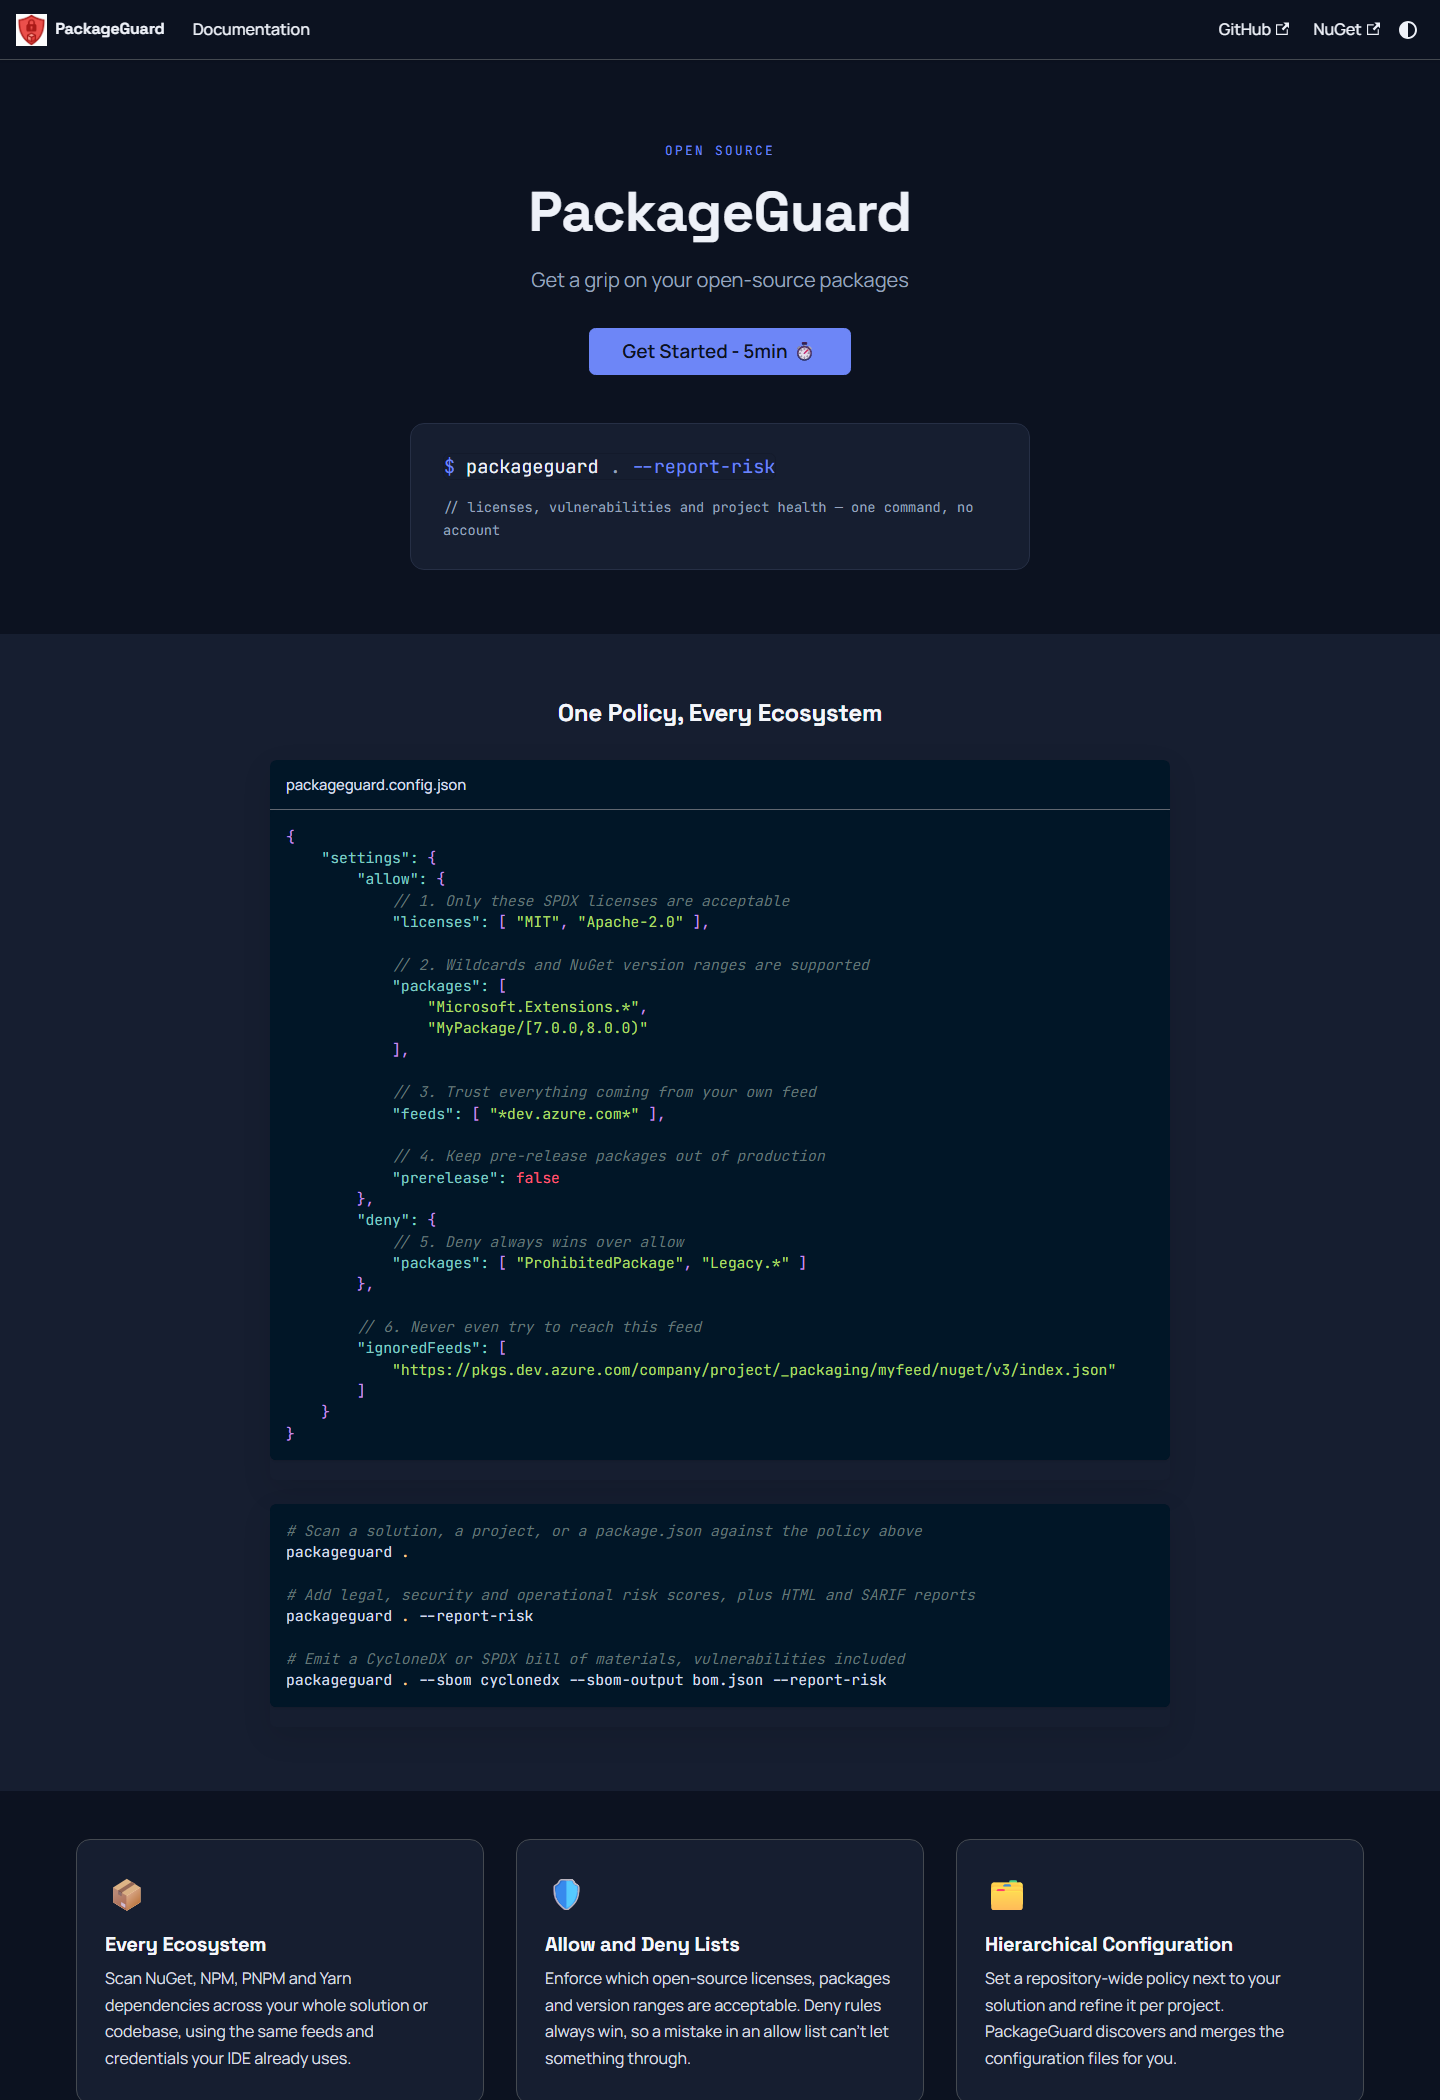
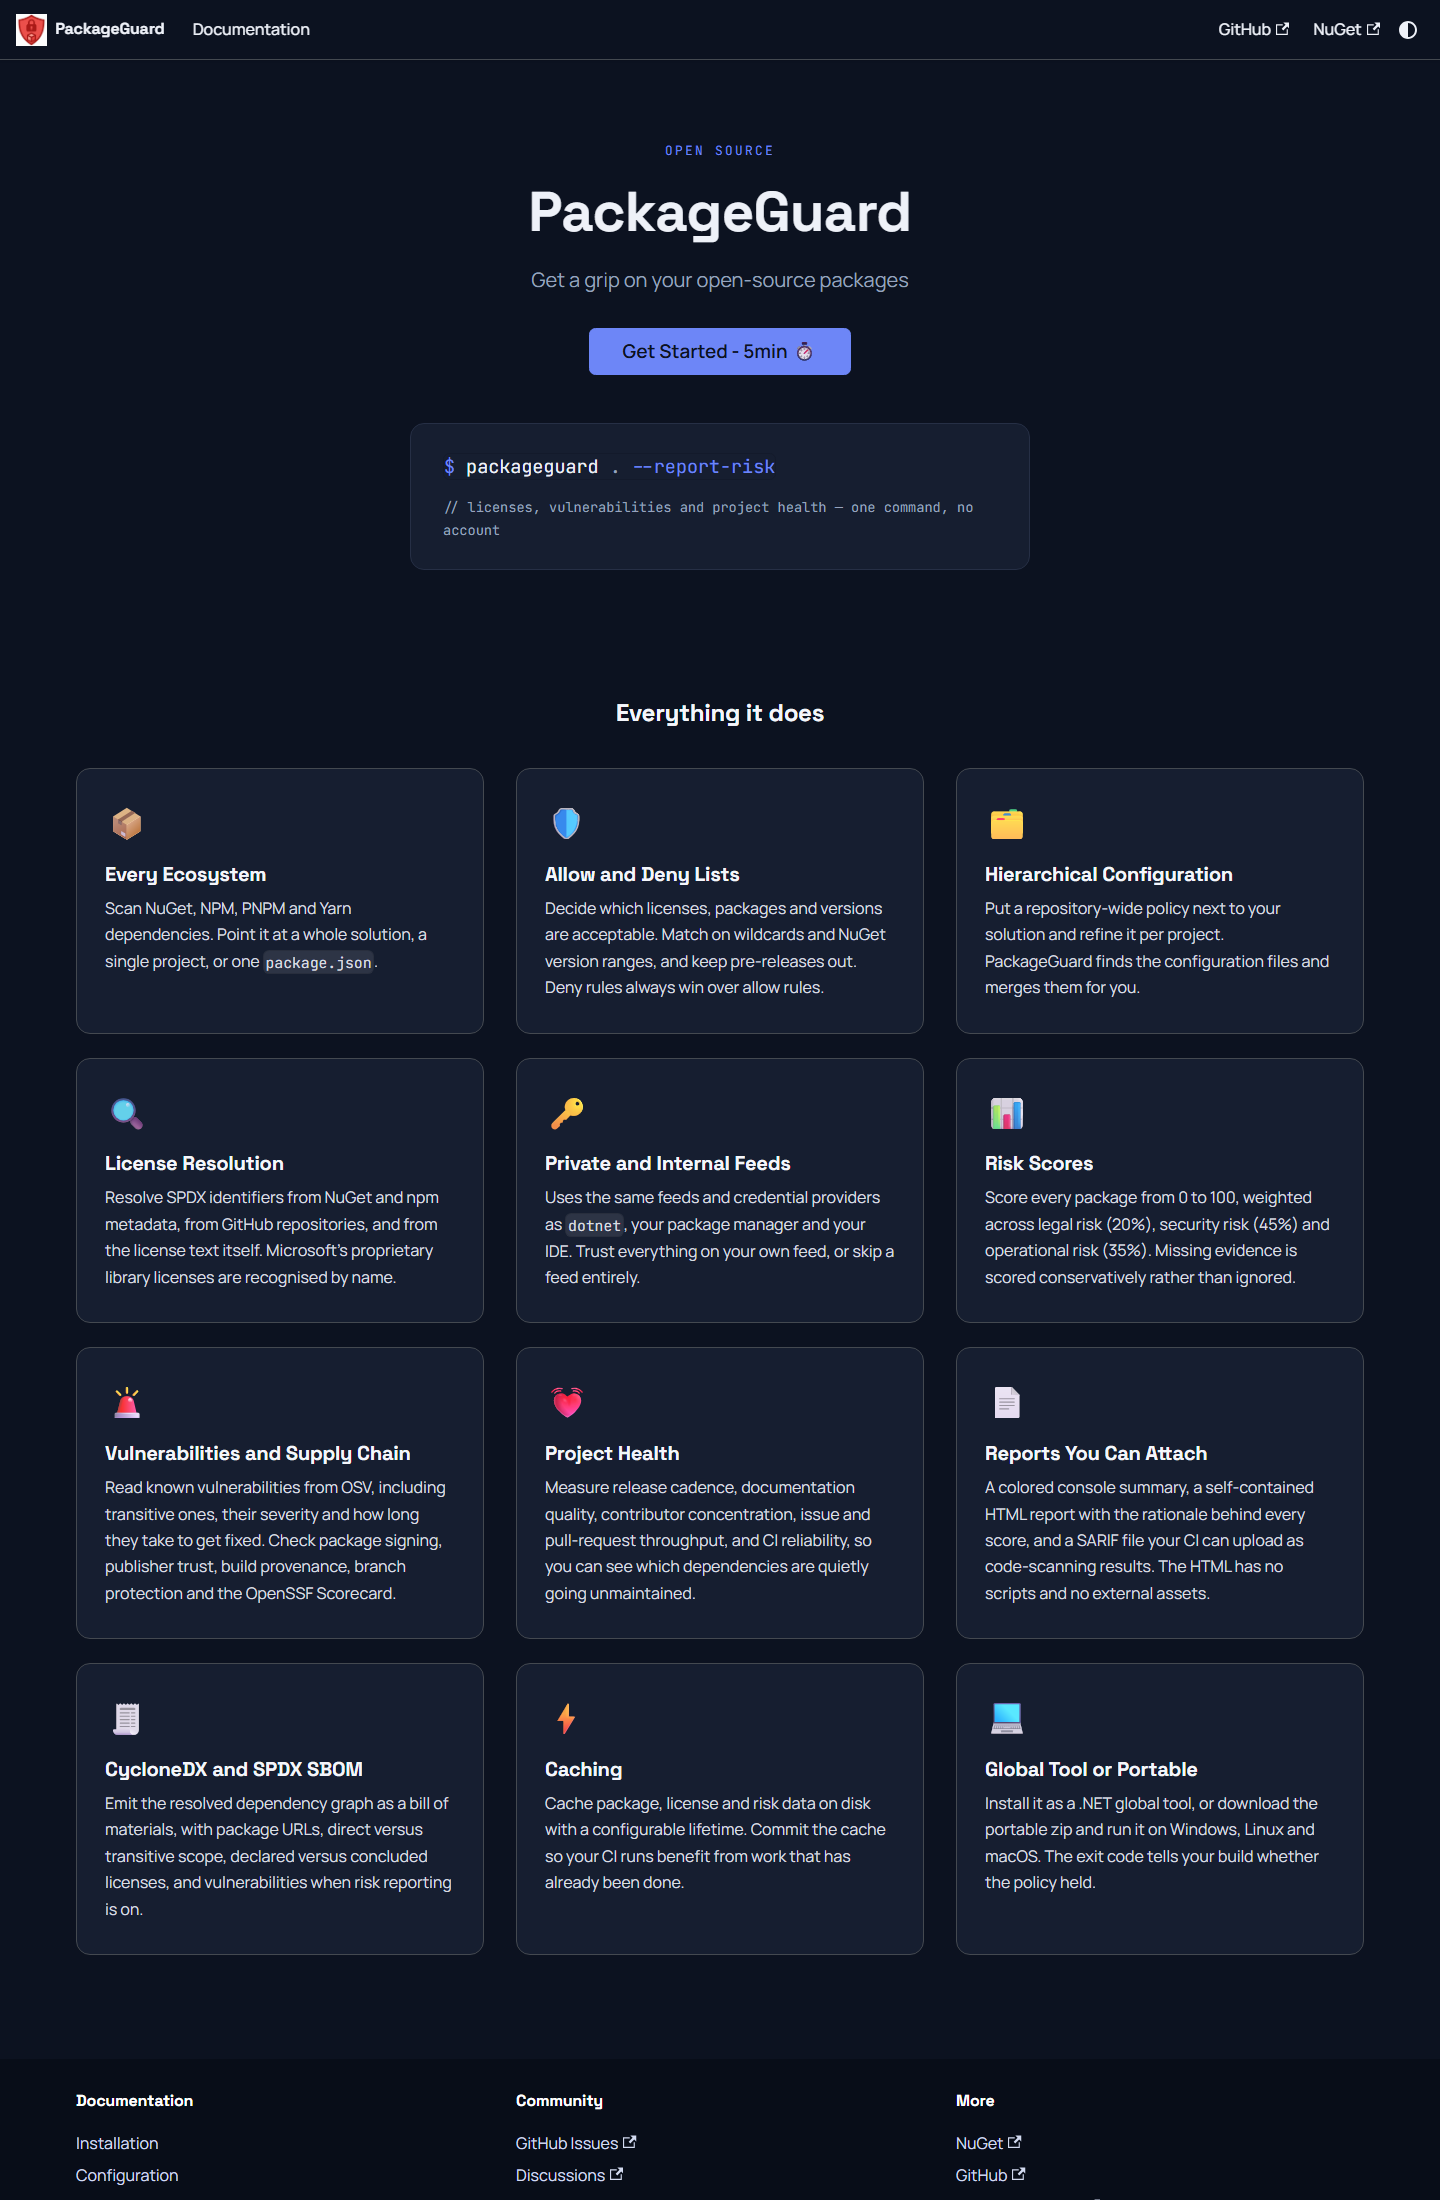
Replace the configuration example on the home page with feature cards
The home page showed one long packageguard.config.json. That belongs on
the Configuration page, not on the page people land on first.

Drop that section and grow the feature grid from six cards to twelve, so
it covers everything the tool does: the four package ecosystems, allow
and deny lists, hierarchical configuration, license resolution, private
feeds, risk scores, vulnerabilities and supply-chain checks, project
health, the three report formats, SBOM output, caching, and the two ways
to install it.

Each card is now a link to the documentation page that explains it.

diff --git a/website/src/components/HomepageFeatures/index.tsx b/website/src/components/HomepageFeatures/index.tsx
@@ -1,11 +1,13 @@
 import type {ReactNode} from 'react';
 import clsx from 'clsx';
+import Link from '@docusaurus/Link';
 import Heading from '@theme/Heading';
 import styles from './styles.module.css';
 
 type FeatureItem = {
   title: string;
   emoji: string;
+  to: string;
   description: ReactNode;
 };
 
@@ -13,78 +15,157 @@ const FeatureList: FeatureItem[] = [
   {
     title: 'Every Ecosystem',
     emoji: '📦',
+    to: '/docs/usage',
     description: (
       <>
-        Scan NuGet, NPM, PNPM and Yarn dependencies across your whole solution
-        or codebase, using the same feeds and credentials your IDE already uses.
+        Scan NuGet, NPM, PNPM and Yarn dependencies. Point it at a whole
+        solution, a single project, or one <code>package.json</code>.
       </>
     ),
   },
   {
     title: 'Allow and Deny Lists',
     emoji: '🛡',
+    to: '/docs/configuration',
     description: (
       <>
-        Enforce which open-source licenses, packages and version ranges are
-        acceptable. Deny rules always win, so a mistake in an allow list can't
-        let something through.
+        Decide which licenses, packages and versions are acceptable. Match on
+        wildcards and NuGet version ranges, and keep pre-releases out. Deny
+        rules always win over allow rules.
       </>
     ),
   },
   {
     title: 'Hierarchical Configuration',
     emoji: '🗂',
+    to: '/docs/configuration#hierarchical-configuration-discovery',
     description: (
       <>
-        Set a repository-wide policy next to your solution and refine it per
-        project. PackageGuard discovers and merges the configuration files for
+        Put a repository-wide policy next to your solution and refine it per
+        project. PackageGuard finds the configuration files and merges them for
         you.
+      </>
+    ),
+  },
+  {
+    title: 'License Resolution',
+    emoji: '🔍',
+    to: '/docs/configuration#identifying-packages-and-licenses',
+    description: (
+      <>
+        Resolve SPDX identifiers from NuGet and npm metadata, from GitHub
+        repositories, and from the license text itself. Microsoft's proprietary
+        library licenses are recognised by name.
+      </>
+    ),
+  },
+  {
+    title: 'Private and Internal Feeds',
+    emoji: '🔑',
+    to: '/docs/configuration#about-feeds',
+    description: (
+      <>
+        Uses the same feeds and credential providers as <code>dotnet</code>,
+        your package manager and your IDE. Trust everything on your own feed, or
+        skip a feed entirely.
       </>
     ),
   },
   {
     title: 'Risk Scores',
     emoji: '📊',
+    to: '/docs/risk-metrics',
     description: (
       <>
-        Score every package on legal, security and operational risk, built from
-        license data, OSV vulnerabilities, signing checks and repository health
-        signals.
+        Score every package from 0 to 100, weighted across legal risk (20%),
+        security risk (45%) and operational risk (35%). Missing evidence is
+        scored conservatively rather than ignored.
+      </>
+    ),
+  },
+  {
+    title: 'Vulnerabilities and Supply Chain',
+    emoji: '🚨',
+    to: '/docs/risk-metrics#security-risk',
+    description: (
+      <>
+        Read known vulnerabilities from OSV, including transitive ones, their
+        severity and how long they take to get fixed. Check package signing,
+        publisher trust, build provenance, branch protection and the OpenSSF
+        Scorecard.
+      </>
+    ),
+  },
+  {
+    title: 'Project Health',
+    emoji: '💓',
+    to: '/docs/risk-metrics#operational-risk',
+    description: (
+      <>
+        Measure release cadence, documentation quality, contributor
+        concentration, issue and pull-request throughput, and CI reliability, so
+        you can see which dependencies are quietly going unmaintained.
       </>
     ),
   },
   {
     title: 'Reports You Can Attach',
     emoji: '📄',
+    to: '/docs/risk-metrics',
     description: (
       <>
         A colored console summary, a self-contained HTML report with the
         rationale behind every score, and a SARIF file your CI can upload as
-        code-scanning results.
+        code-scanning results. The HTML has no scripts and no external assets.
       </>
     ),
   },
   {
-    title: 'Standards-Compliant SBOM',
+    title: 'CycloneDX and SPDX SBOM',
     emoji: '🧾',
+    to: '/docs/sbom',
     description: (
       <>
-        Emit the resolved dependency graph as CycloneDX or SPDX JSON, with
-        package URLs, license evidence and — when combined with risk reporting —
-        known vulnerabilities.
+        Emit the resolved dependency graph as a bill of materials, with package
+        URLs, direct versus transitive scope, declared versus concluded
+        licenses, and vulnerabilities when risk reporting is on.
+      </>
+    ),
+  },
+  {
+    title: 'Caching',
+    emoji: '⚡',
+    to: '/docs/caching-and-rate-limits',
+    description: (
+      <>
+        Cache package, license and risk data on disk with a configurable
+        lifetime. Commit the cache so your CI runs benefit from work that has
+        already been done.
+      </>
+    ),
+  },
+  {
+    title: 'Global Tool or Portable',
+    emoji: '💻',
+    to: '/docs/installation',
+    description: (
+      <>
+        Install it as a .NET global tool, or download the portable zip and run
+        it on Windows, Linux and macOS. The exit code tells your build whether
+        the policy held.
       </>
     ),
   },
 ];
 
-function Feature({title, emoji, description}: FeatureItem) {
+function Feature({title, emoji, description, to}: FeatureItem) {
   return (
     <div className={clsx('col col--4', styles.featureCol)}>
-      <div className={styles.featureCard}>
+      <Link to={to} className={styles.featureCard}>
         <div className={styles.featureEmoji}>{emoji}</div>
         <Heading as="h3" className={styles.featureTitle}>{title}</Heading>
         <p className={styles.featureDescription}>{description}</p>
-      </div>
+      </Link>
     </div>
   );
 }
@@ -93,6 +174,9 @@ export default function HomepageFeatures(): ReactNode {
   return (
     <section className={styles.features}>
       <div className="container">
+        <Heading as="h2" className={styles.featuresTitle}>
+          Everything it does
+        </Heading>
         <div className="row">
           {FeatureList.map((props, idx) => (
             <Feature key={idx} {...props} />

diff --git a/website/src/components/HomepageFeatures/styles.module.css b/website/src/components/HomepageFeatures/styles.module.css
@@ -1,25 +1,39 @@
 .features {
   display: flex;
   align-items: stretch;
-  padding: 3rem 0 4rem;
+  padding: 4rem 0 5rem;
   width: 100%;
+}
+
+.featuresTitle {
+  text-align: center;
+  margin-bottom: 2.5rem;
 }
 
 .featureCol {
   margin-bottom: 1.5rem;
 }
 
+/*
+ * The whole card is a link to the matching documentation page, so reset the
+ * anchor back to body text and let the border carry the affordance instead.
+ */
 .featureCard {
+  display: block;
   height: 100%;
   padding: 1.75rem 1.75rem 2rem;
   border: 1px solid var(--ifm-toc-border-color);
   border-radius: 14px;
   background: var(--ifm-background-surface-color);
+  color: var(--ifm-font-color-base);
   transition: border-color 0.15s ease;
 }
 
-.featureCard:hover {
+.featureCard:hover,
+.featureCard:focus-visible {
   border-color: var(--ifm-color-primary);
+  color: var(--ifm-font-color-base);
+  text-decoration: none;
 }
 
 .featureEmoji {
@@ -29,6 +43,11 @@
 
 .featureTitle {
   margin-bottom: 0.5rem;
+  font-size: 1.25rem;
+}
+
+.featureCard:hover .featureTitle {
+  color: var(--ifm-color-primary);
 }
 
 .featureDescription {

diff --git a/website/src/pages/index.tsx b/website/src/pages/index.tsx
@@ -4,7 +4,6 @@ import Link from '@docusaurus/Link';
 import useDocusaurusContext from '@docusaurus/useDocusaurusContext';
 import Layout from '@theme/Layout';
 import HomepageFeatures from '@site/src/components/HomepageFeatures';
-import HomepageExample from '@site/src/components/HomepageExample';
 import Heading from '@theme/Heading';
 
 import styles from './index.module.css';
@@ -49,7 +48,6 @@ export default function Home(): ReactNode {
       description="Scan the NuGet, NPM, PNPM and Yarn dependencies of your codebase against a deny- or allowlist, and score every package on legal, security and operational risk">
       <HomepageHeader />
       <main>
-        <HomepageExample />
         <HomepageFeatures />
       </main>
     </Layout>

diff --git a/website/README.md b/website/README.md
@@ -130,7 +130,7 @@ This script checks:
 ## Customization
 
 - **Colors**: Edit `src/css/custom.css` to modify the color scheme
-- **Homepage**: Edit `src/pages/index.tsx`, `src/components/HomepageExample/index.tsx` and `src/components/HomepageFeatures/index.tsx`
+- **Homepage**: Edit `src/pages/index.tsx` and `src/components/HomepageFeatures/index.tsx`
 - **Configuration**: Edit `docusaurus.config.ts` for site-wide settings
 - **Sidebar**: Edit `sidebars.ts` to modify documentation navigation
 
